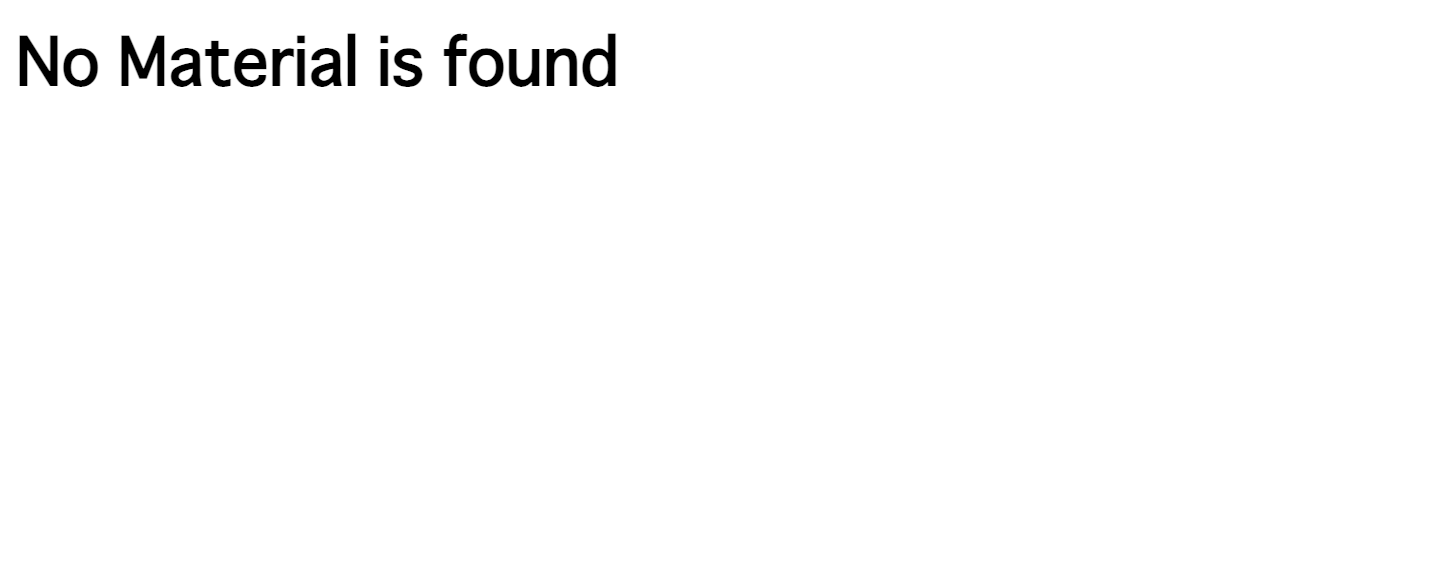
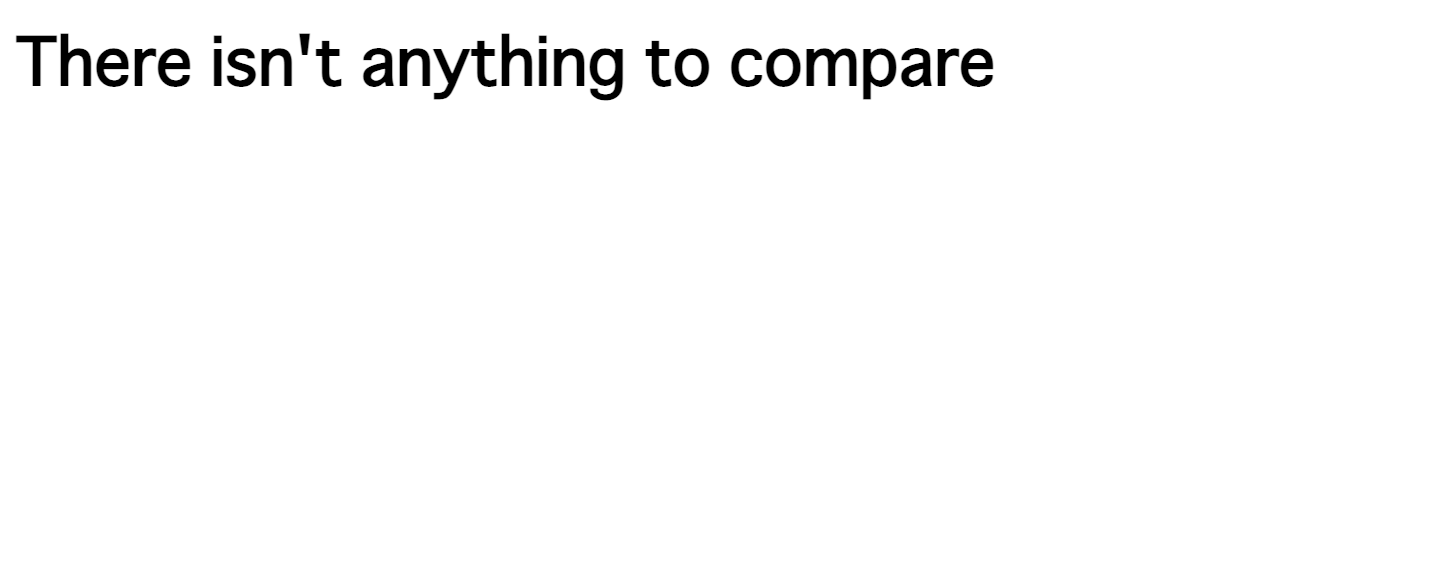
#393

Changed region(s): [[0.0, 0.0625, 0.6875, 0.1875]]

diff --git a/src/main/resources/com/kazurayam/materialstore/core/filesystem/NoMaterialFound.html b/src/main/resources/com/kazurayam/materialstore/core/filesystem/NoMaterialFound.html
@@ -1,5 +1,5 @@
 <html>
 <body>
-<h1>No Material is found</h1>
+<h1>There isn't anything to compare</h1>
 </body>
 </html>

diff --git a/src/test/java/com/kazurayam/materialstore/base/inspector/InspectorTest.java b/src/test/java/com/kazurayam/materialstore/base/inspector/InspectorTest.java
@@ -2,6 +2,7 @@ package com.kazurayam.materialstore.base.inspector;
 
 import com.kazurayam.materialstore.base.reduce.MaterialProductGroup;
 import com.kazurayam.materialstore.core.TestHelper;
+import com.kazurayam.materialstore.core.filesystem.FileType;
 import com.kazurayam.materialstore.core.filesystem.ID;
 import com.kazurayam.materialstore.core.filesystem.JobName;
 import com.kazurayam.materialstore.core.filesystem.JobTimestamp;
@@ -22,6 +23,8 @@ import java.nio.file.Path;
 import java.util.LinkedHashMap;
 
 import static org.junit.jupiter.api.Assertions.assertEquals;
+import static org.junit.jupiter.api.Assertions.assertNotNull;
+import static org.junit.jupiter.api.Assertions.assertTrue;
 
 public class InspectorTest {
 
@@ -62,10 +65,10 @@ public class InspectorTest {
                         .identifyWithRegex(map)
                         .sort("URL.host")
                         .build();
-        Assertions.assertNotNull(reducedMPG);
+        assertNotNull(reducedMPG);
 
         MaterialProductGroup processedMPG = inspector.reduceAndSort(reducedMPG);
-        Assertions.assertNotNull(processedMPG);
+        assertNotNull(processedMPG);
 
         processedMPG.forEach(mProduct -> Assertions.assertNotEquals(ID.NULL_OBJECT,
                 mProduct.getDiff().getIndexEntry().getID()));
@@ -80,26 +83,48 @@ public class InspectorTest {
         //System.out.println("materialList=" + materialList.toTemplateModel());
         Inspector inspector = Inspector.newInstance(store);
         Path report = inspector.report(materialList);
-        Assertions.assertNotNull(report);
-        Assertions.assertTrue(Files.exists(report));
+        assertNotNull(report);
+        assertTrue(Files.exists(report));
     }
 
     @Test
     public void test_report_MaterialProductGroup() throws MaterialstoreException {
         LinkedHashMap<String, String> map = new LinkedHashMap<>(1);
         map.put("URL.query", "\\w{32}");
-        MaterialProductGroup reducedMPG = MaterialProductGroup.builder(left, right)
+        MaterialProductGroup mpg = MaterialProductGroup.builder(left, right)
                 .ignoreKeys("environment", "URL.host", "URL.port", "URL.protocol")
                 .identifyWithRegex(map)
                 .sort("URL.host")
                 .build();
-        MaterialProductGroup processedMPG = inspector.reduceAndSort(reducedMPG);
+        MaterialProductGroup reduced = inspector.reduceAndSort(mpg);
         double threshold = 0.0D;
-        Assertions.assertTrue(processedMPG.countWarnings(threshold) > 0);
+        assertTrue(reduced.countWarnings(threshold) > 0);
 
-        Path report = inspector.report(processedMPG, threshold);
-        Assertions.assertNotNull(report);
-        Assertions.assertTrue(Files.exists(report));
+        Path report = inspector.report(reduced, threshold);
+        assertNotNull(report);
+        assertTrue(Files.exists(report));
+    }
+
+    /*
+     * https://github.com/kazurayam/materialstore/issues/393
+     * Even when the left MaterialList is empty, Inspector should work quietly
+     * and produce a report that shows "There isn't anything to compare"
+     */
+    @Test
+    public void test_report_MaterialProductGroup_ThereIsntAnythingToCompare()
+            throws MaterialstoreException {
+        MaterialList emptyML =
+                store.select(new JobName("MyAdmin_visual_inspection_twins"),
+                        new JobTimestamp("20220128_191320"),
+                        FileType.JPEG);   // I know, there is no JPEG
+        //
+        MaterialProductGroup mpg = MaterialProductGroup.builder(emptyML, right).build();
+        MaterialProductGroup reduced = inspector.reduceAndSort(mpg);
+        double threshold = 0.0D;
+        assertTrue(reduced.countWarnings(threshold) > 0);
+        Path report = inspector.report(reduced, threshold);
+        assertNotNull(report);
+        assertTrue(Files.exists(report));
     }
 
     @Test
